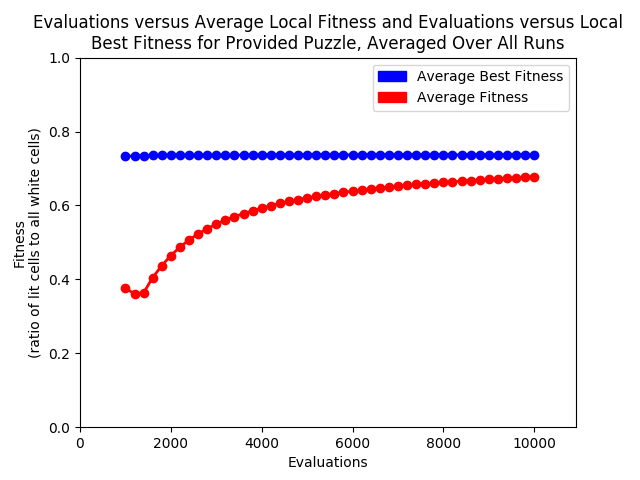
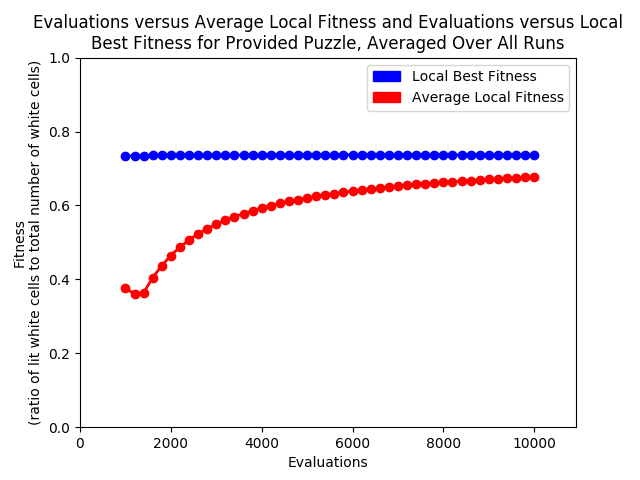
Tweak graphs

Changed region(s): [[0.0312, 0.125, 0.0625, 0.875], [0.625, 0.125, 0.875, 0.2188], [0.5625, 0.125, 0.5938, 0.2188]]

diff --git a/gen_graphs.py b/gen_graphs.py
@@ -4,7 +4,7 @@ import matplotlib.pyplot as plt
 import matplotlib.patches as mpatches
 import numpy as np
 
-log_file_paths = ['../output/random_gen_log.txt', '../output/website_puzzle_log.txt']
+log_file_paths = ['output/random_gen_log.txt', 'output/website_puzzle_log.txt']
 graph_titles = ['Randomly Generated Puzzles', 'Provided Puzzle']
 
 for q in range(len(log_file_paths)):
@@ -85,15 +85,15 @@ for q in range(len(log_file_paths)):
         plt.ylim(0, 1)
         plt.xlim(0, evals[-1] + (len(evals) * 20))
 
-        red_patch = mpatches.Patch(color='red', label='Average Fitness')
-        blue_patch = mpatches.Patch(color='blue', label='Average Best Fitness')
+        red_patch = mpatches.Patch(color='red', label='Average Local Fitness')
+        blue_patch = mpatches.Patch(color='blue', label='Local Best Fitness')
         plt.legend(handles=[blue_patch, red_patch])
 
         plt.title('Evaluations versus Average Local Fitness and Evaluations versus Local\nBest Fitness for ' + graph_titles[q] + ', Averaged Over All Runs')
 
         # Include necessary labels
         plt.xlabel('Evaluations')
-        plt.ylabel('Fitness\n(ratio of lit cells to all white cells)')
+        plt.ylabel('Fitness\n(ratio of lit white cells to total number of white cells)')
 
         # Save and close the plot
         plt.savefig(log_file_paths[q][:log_file_paths[q].find('log')] + 'graph.png')
